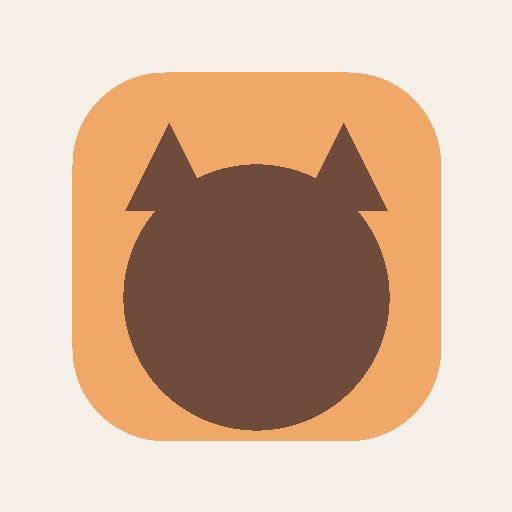
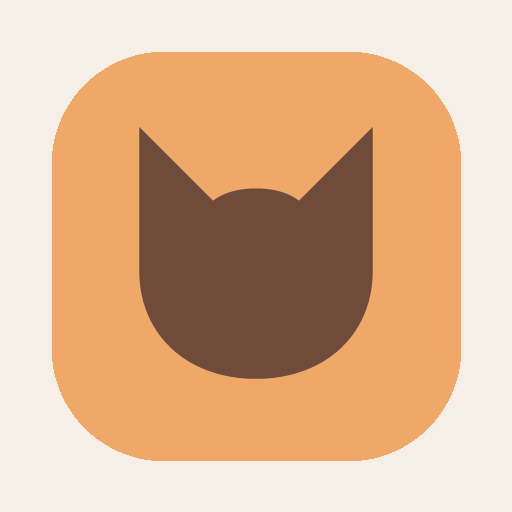
メモ画面のヘッダ2段化、サムネイルとアイコンを猫の形に統一

Changed region(s): [[0.0938, 0.0938, 0.9062, 0.9062], [0.375, 0.3125, 0.625, 0.4062]]

diff --git a/src/components/Memo/MemoScreen.tsx b/src/components/Memo/MemoScreen.tsx
@@ -10,7 +10,6 @@ import {
   EyeOffIcon,
   SettingsIcon,
   RedoIcon,
-  SaveIcon,
   ShareIcon,
   UndoIcon,
 } from '../ui/Icons';
@@ -73,24 +72,27 @@ export function MemoScreen({
         <IconButton onClick={onBack} small title="戻る">
           <BackIcon size={16} />
         </IconButton>
-        <span className={s.label}>{board.label}</span>
+        <span className={s.label}>
+          {board.label || '名前なしの盤面'}
+          <span className={s.sub}>
+            メモ {memoSet.activeIndex + 1}/{memoSet.memos.length} · {board.n}×{board.n}
+          </span>
+        </span>
+        {!saved && onSave && (
+          <button className={s.save} onClick={onSave}>
+            保存
+          </button>
+        )}
+      </div>
+
+      <div className={s.tools}>
         <IconButton onClick={store.undo} disabled={!store.canUndo} small title="元に戻す">
           <UndoIcon size={16} />
         </IconButton>
         <IconButton onClick={store.redo} disabled={!store.canRedo} small title="やり直す">
           <RedoIcon size={16} />
         </IconButton>
-        <IconButton onClick={store.toggleImported} small title="インポート表示">
-          {active.showImported ? <EyeIcon size={16} /> : <EyeOffIcon size={16} />}
-        </IconButton>
-        {onShare && (
-          <IconButton onClick={onShare} small title="共有">
-            <ShareIcon size={16} />
-          </IconButton>
-        )}
-        <IconButton onClick={onOpenSettings} small title="設定">
-          <SettingsIcon size={16} />
-        </IconButton>
+        <span className={s.grow} />
         {onReset && (
           <button
             className={s.reset}
@@ -106,11 +108,22 @@ export function MemoScreen({
             {confirmReset ? '本当に？' : 'リセット'}
           </button>
         )}
-        {!saved && onSave && (
-          <IconButton onClick={onSave} small title="保存">
-            <SaveIcon size={16} />
+        <IconButton
+          onClick={store.toggleImported}
+          small
+          active={active.showImported}
+          title={active.showImported ? 'スクショの内容を隠す' : 'スクショの内容を表示'}
+        >
+          {active.showImported ? <EyeIcon size={16} /> : <EyeOffIcon size={16} />}
+        </IconButton>
+        {onShare && (
+          <IconButton onClick={onShare} small title="共有リンクをコピー">
+            <ShareIcon size={16} />
           </IconButton>
         )}
+        <IconButton onClick={onOpenSettings} small title="設定">
+          <SettingsIcon size={16} />
+        </IconButton>
       </div>
 
       <div className={s.boardArea}>
@@ -128,6 +141,10 @@ export function MemoScreen({
             onStroke={(actions, phase) => store.onStroke(actions, phase, settings.autoExclude)}
           />
         </div>
+      </div>
+
+      <div className={s.hint}>
+        タップでバツ、もう一度タップで猫。ドラッグでまとめて塗れます
       </div>
 
       <Scrubber

diff --git a/src/App.tsx b/src/App.tsx
@@ -15,7 +15,7 @@ import './styles/global.css';
 type View =
   | { kind: 'home' }
   | { kind: 'list' }
-  | { kind: 'setup'; input: SetupInput }
+  | { kind: 'setup'; input: SetupInput; id: string }
   | { kind: 'memo'; board: Board; memoSet: MemoSet; saved: boolean }
   | { kind: 'share'; board: Board; memoSet: MemoSet };
 
@@ -64,7 +64,7 @@ export default function App() {
   /** §5 スクリーンショットから補正画面へ。読めなければ空の盤面を出す */
   const handleImage = useCallback(async (blob: Blob) => {
     const input = await importScreenshot(blob).catch(() => null);
-    setView({ kind: 'setup', input: input ?? blank(9) });
+    setView({ kind: 'setup', input: input ?? blank(9), id: newId() });
   }, []);
 
   // ファイル選択・ドラッグ&ドロップ・クリップボード貼り付けの3経路
@@ -124,6 +124,7 @@ export default function App() {
   if (view.kind === 'setup') {
     return (
       <Setup
+        key={view.id}
         input={view.input}
         onCancel={() => setView({ kind: 'home' })}
         onDone={(board: Board, imported: Marks) => {
@@ -197,7 +198,7 @@ export default function App() {
         <Home
           memoSetCount={memoSets.length}
           onImport={() => fileInput.current?.click()}
-          onManual={() => setView({ kind: 'setup', input: blankSetup(9) })}
+          onManual={() => setView({ kind: 'setup', input: blankSetup(9), id: newId() })}
           onOpenList={() => setView({ kind: 'list' })}
         />
       </>
@@ -224,7 +225,7 @@ export default function App() {
         const board = boards.get(set.boardId);
         if (board) setView({ kind: 'memo', board, memoSet: set, saved: true });
       }}
-      onNew={() => setView({ kind: 'setup', input: blankSetup(9) })}
+      onNew={() => setView({ kind: 'setup', input: blankSetup(9), id: newId() })}
       onImport={() => fileInput.current?.click()}
       onRename={(id, name) => {
         const set = memoSets.find((m) => m.id === id);

diff --git a/src/components/Memo/Memo.module.css b/src/components/Memo/Memo.module.css
@@ -9,18 +9,55 @@
 .top {
   display: flex;
   align-items: center;
+  gap: 8px;
+  flex: none;
+}
+
+.tools {
+  display: flex;
+  align-items: center;
   gap: 7px;
   flex: none;
 }
 
+.grow {
+  flex: 1;
+}
+
+.save {
+  flex: none;
+  height: 34px;
+  padding: 0 16px;
+  border-radius: 17px;
+  background: var(--accent);
+  color: #fff;
+  font-size: 14px;
+}
+
 .label {
   flex: 1;
+  padding-right: 4px;
   min-width: 0;
-  font-size: 15px;
+  font-size: 14.5px;
+  line-height: 1.25;
   white-space: nowrap;
   overflow: hidden;
   text-overflow: ellipsis;
   padding-left: 2px;
+}
+
+.sub {
+  display: block;
+  font-size: 11px;
+  color: var(--ink-weak);
+}
+
+.hint {
+  flex: none;
+  text-align: center;
+  font-size: 11.5px;
+  color: var(--ink-weak);
+  padding: 2px 0 4px;
 }
 
 .boardArea {
@@ -31,7 +68,12 @@
 }
 
 .boardBox {
-  width: min(100%, calc(100dvh - 190px));
+  width: min(100%, calc(100dvh - 260px));
+}
+
+.root {
+  max-width: 560px;
+  margin: 0 auto;
 }
 
 .reset {

diff --git a/src/components/List/Thumbnail.tsx b/src/components/List/Thumbnail.tsx
@@ -1,5 +1,6 @@
 import type { Board, Marks } from '../../model/types';
 import { CAT, CROSS } from '../../model/types';
+import { CAT_PATH } from '../ui/catPath';
 
 /** 一覧用のサムネイル。盤面を SVG で簡略描画する */
 export function Thumbnail({
@@ -35,10 +36,12 @@ export function Thumbnail({
               width={cell}
               height={cell}
               rx={cell * 0.16}
-              fill={mark === CAT ? 'var(--accent)' : board.palette[region]}
+              fill={board.palette[region]}
             />
             {mark === CAT && (
-              <circle cx={x + cell / 2} cy={y + cell / 2} r={cell * 0.28} fill="var(--ink)" />
+              <g transform={`translate(${x + cell * 0.12} ${y + cell * 0.12}) scale(${(cell * 0.76) / 100})`}>
+                <path d={CAT_PATH} fill="var(--ink)" />
+              </g>
             )}
             {mark === CROSS && (
               <g stroke="#fff" strokeWidth={cell * 0.11} strokeLinecap="round">

diff --git a/worklog/2026-09-20-session-2/log.md b/worklog/2026-09-20-session-2/log.md
@@ -7,3 +7,6 @@
 - 一覧はメモセット名を主・盤面名を従に変更、タイトルと空状態の文言を追加
 - 各シートにタイトルと入力欄のラベル、設定トグルに説明を追加
 - 盤面作成画面に Undo/Redo（サイズ変更も戻せる）、入力欄のラベル、残り数とルール違反の表示を追加、チップのリング切れを修正
+- スクショ読み込み中に再度貼り付けても画面が更新されない不具合を修正（Setup を key で作り直す）
+- メモ画面のヘッダを2段にして盤面名が潰れないようにし、操作ヒントを追加
+- サムネイルと PWA アイコンを新しい猫の形に統一（scripts/make-icons.mjs）
